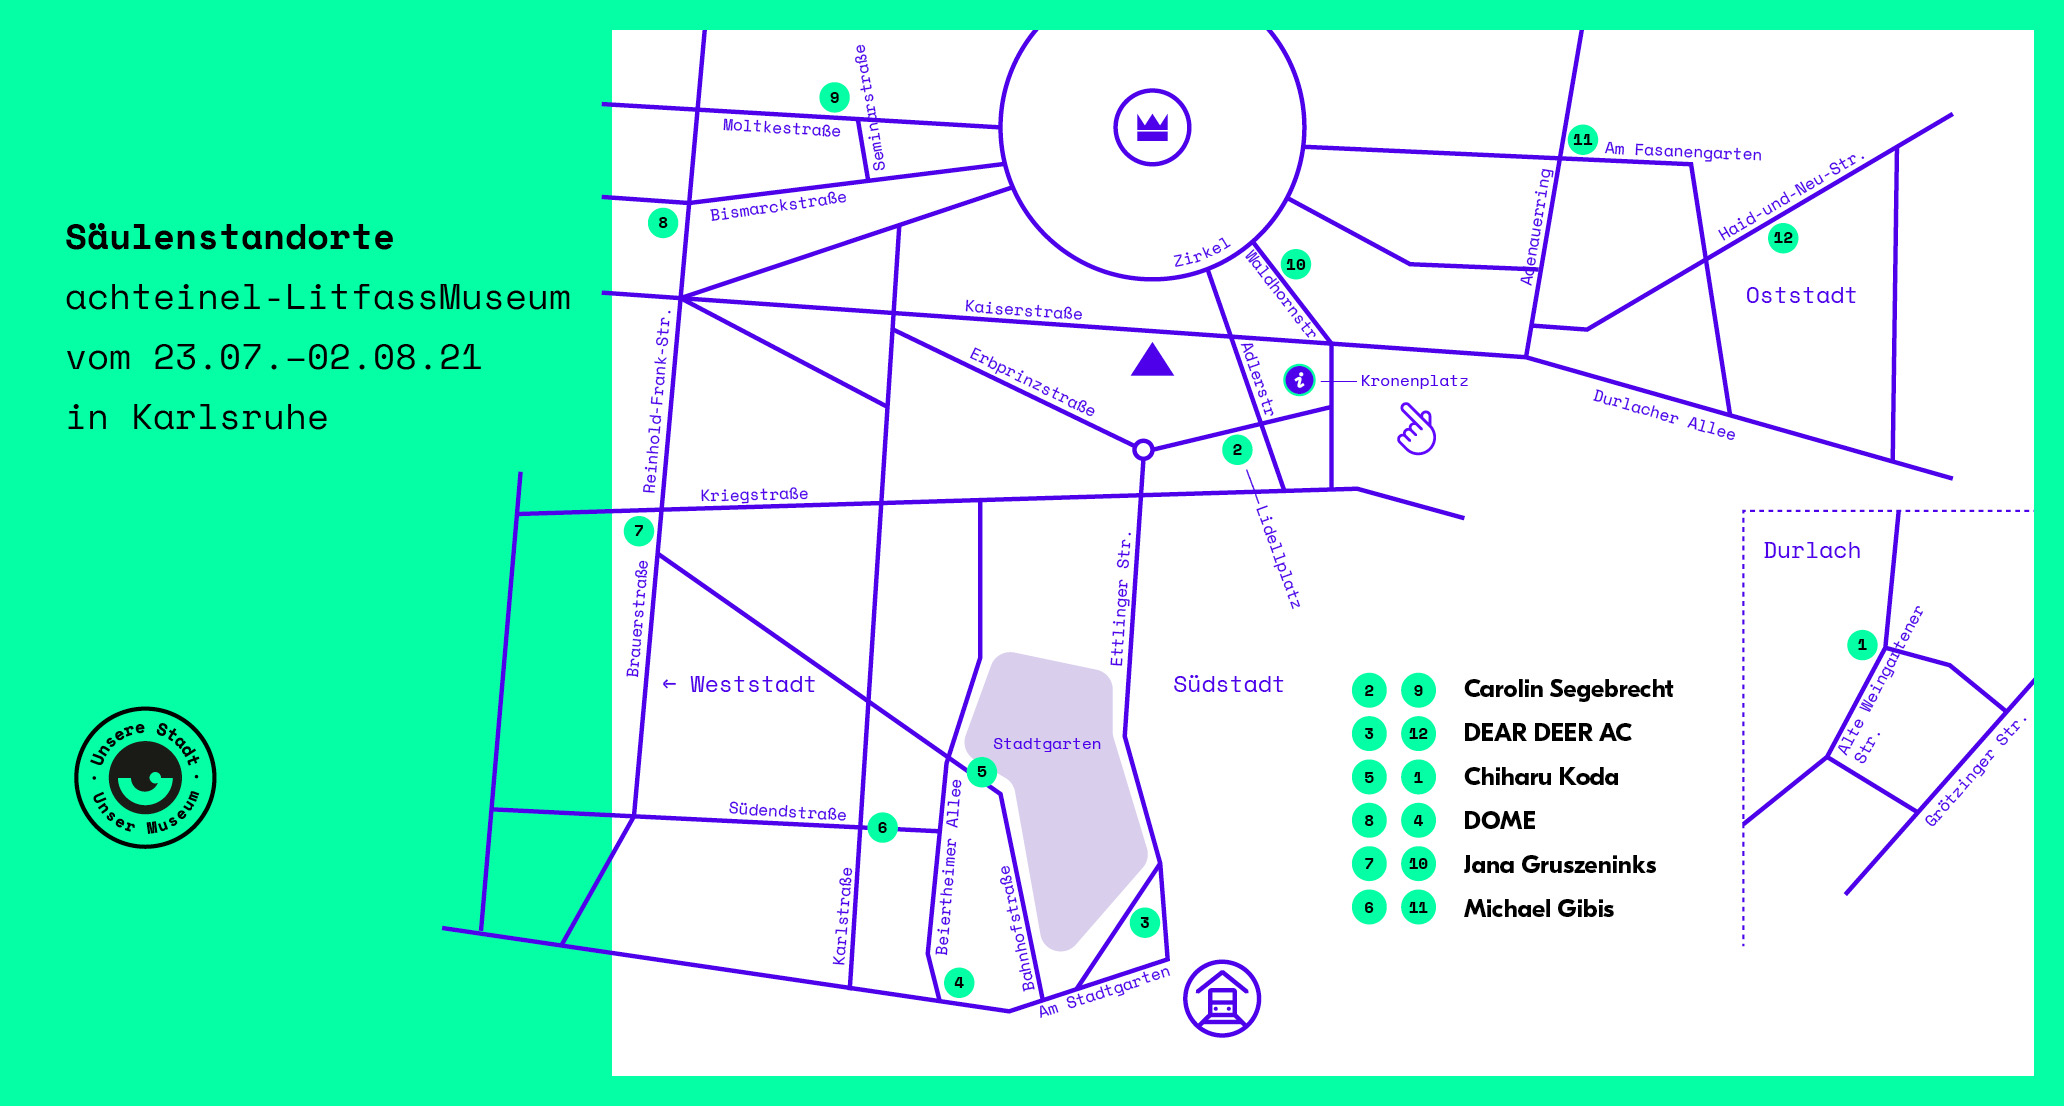
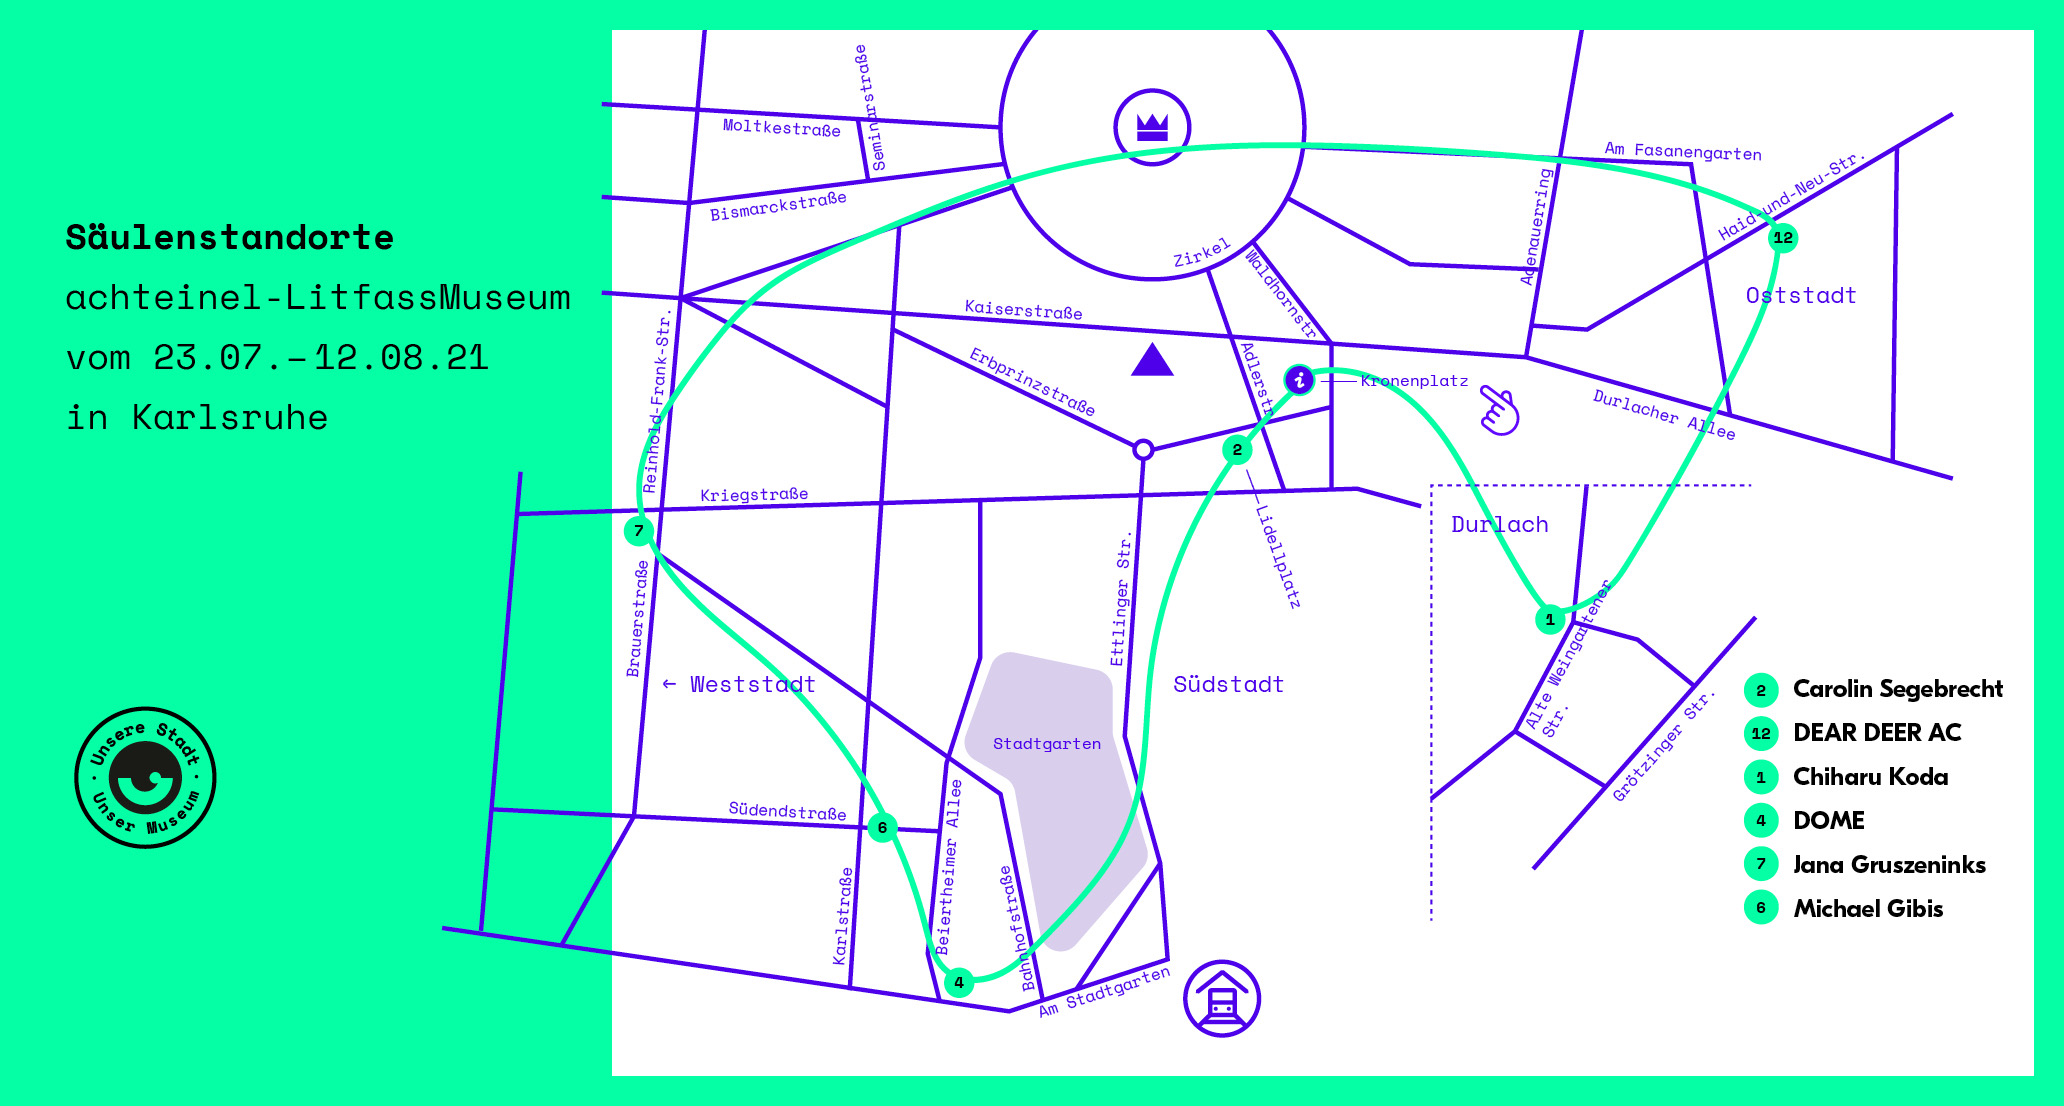
Update exhibition dates and hero

diff --git a/src/museum/ausstellung-01/about.md b/src/museum/ausstellung-01/about.md
@@ -2,9 +2,9 @@
 layout: base
 title: Die erste Ausstellung des achteintel—LitfassMuseum findet vom 23. Juli bis zum 2. August in Karlsruhe statt.
 permalink: ./museum/ausstellung-01/index.html
-metaDescription: Die erste Ausstellung des achteintel—LitfassMuseum findet vom 23. Juli bis zum 2. August in Karlsruhe statt.
+metaDescription: Die erste Ausstellung des achteintel—LitfassMuseum findet vom 23. Juli bis zum 12. August in Karlsruhe statt.
 heroImage: './src/assets/img/ausstellung-hero.jpeg'
-heroImageAlt: 'Karte mit den Standorten der Litfaßsäulen der ersten Ausstellung vom 23.07. bis 02.08. in Karlsruhe'
+heroImageAlt: 'Karte mit den Standorten der Litfaßsäulen der ersten Ausstellung vom 23.07. bis 12.08. in Karlsruhe'
 eleventyNavigation:
   key: Museum
   order: 1

diff --git a/src/pages/index.md b/src/pages/index.md
@@ -2,7 +2,7 @@
 layout: base
 title: achteintel–LitfassMuseum
 permalink: ./index.html
-metaDescription: Achteintel, das LitfassMuseum erfrischt mit der ersten Ausstellung vom 23.7 bis zum 2.8.21 das Stadtbild von Karlsruhe mit Kunst, Grafik und Illustration.
+metaDescription: Achteintel, das LitfassMuseum erfrischt mit der ersten Ausstellung vom 23.07. bis zum 12.08.21 das Stadtbild von Karlsruhe mit Kunst, Grafik und Illustration.
 heroImage: './src/assets/img/hero-01.jpg'
 heroImageAlt: 'Dino und Litfaßsäule'
 heroText: 'Das LitfassMuseum für Karlsruhe'

diff --git a/src/pages/fund.md b/src/pages/fund.md
@@ -2,7 +2,7 @@
 layout: base
 title: Crowdfunding
 permalink: ./fund/index.html
-metaDescription: Achteintel, das LitfassMuseum erfrischt das Stadtbild von Karlsruhe mit Kunst, Grafik, Illustration und Fotografie. Zur Umsetzung dieser Ausstellungsidee benötigen wir deine finanzielle Unterstützung.
+metaDescription: Achteintel, das LitfassMuseum erfrischt das Stadtbild von Karlsruhe mit Kunst, Grafik, Illustration.
 heroImage: './src/assets/img/hero-01.jpg'
 heroImageAlt: 'Dino und Litfaßsäule'
 heroText: 'Das LitfassMuseum für Karlsruhe'

diff --git a/src/pages/blog.md b/src/pages/blog.md
@@ -10,6 +10,6 @@ eleventyNavigation:
 
 ## Blog
 
-Die erste Ausstellung des achteintel—LitfassMuseum findet vom 23. Juli bis zum 02. August auf 12 Litfaßsäulen in Karlsruhe statt. In diesem Blog schreiben Michael und Daniel über den Weg zur Ausstellung.   
+Die erste Ausstellung des achteintel—LitfassMuseum findet vom 23. Juli bis zum 12. August auf 12 Litfaßsäulen in Karlsruhe statt. In diesem Blog schreiben Michael und Daniel über die Ausstellung.   
 
 {% include "partials/components/posts-list.njk" %}
